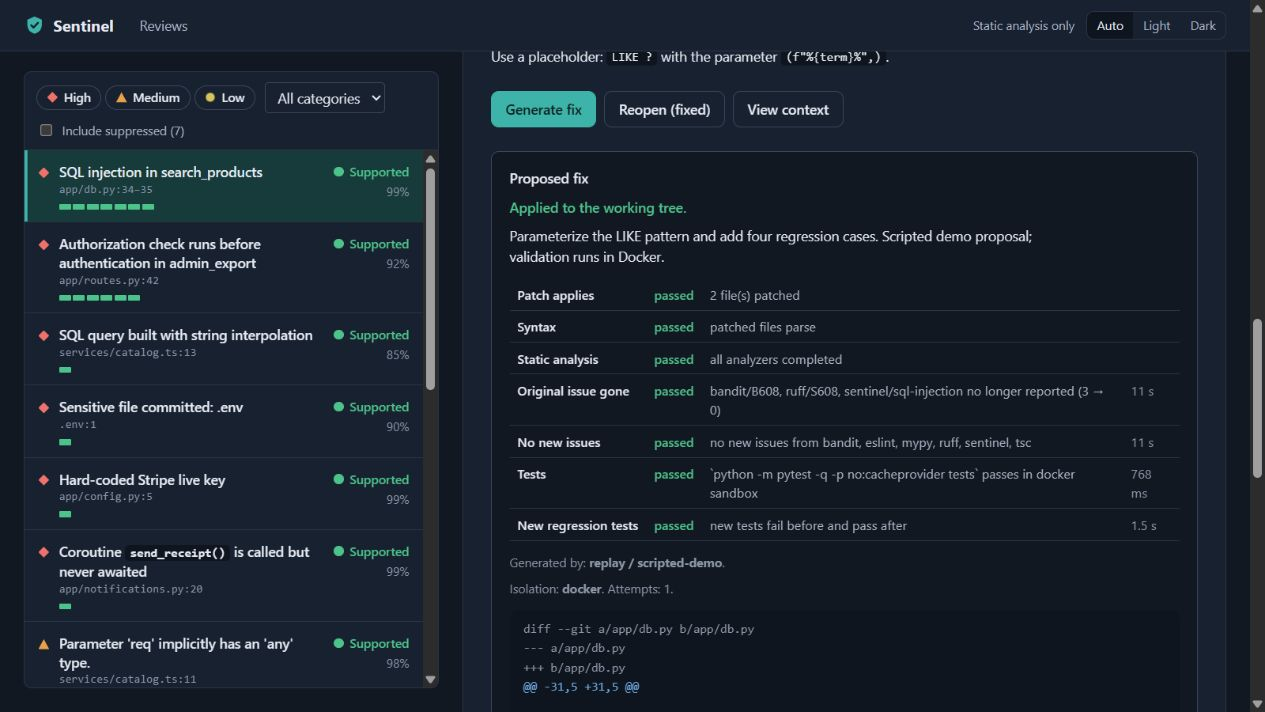
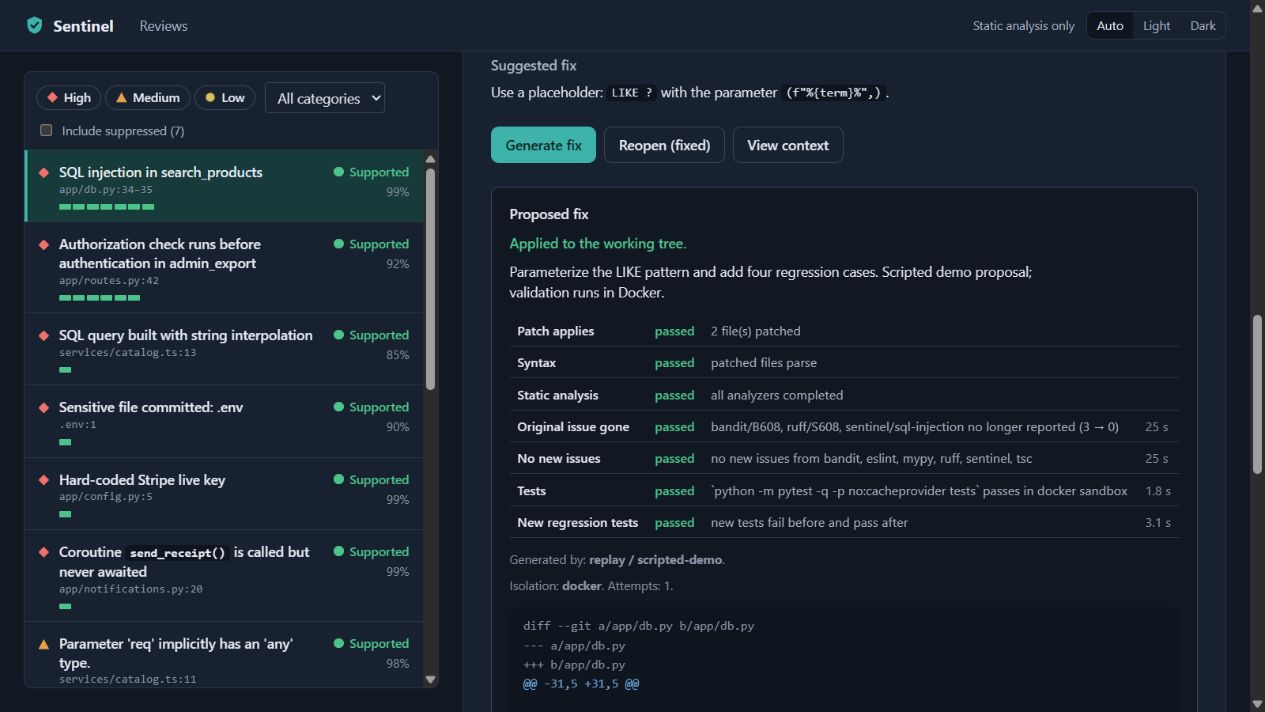
Record fresh-download demo acceptance and Docker restart guidance

diff --git a/docs/PUBLIC_DEMO_VERIFICATION.md b/docs/PUBLIC_DEMO_VERIFICATION.md
@@ -1,0 +1,102 @@
+# Public demo: fresh-download verification
+
+Confirmed **20 October 2026** on the public demo implementation
+[`a435e0c`](https://github.com/krish-121/Ai-code-reviewer/commit/a435e0cf0ca10886f9681f012bc28e09ffdeece0).
+This is a visitor rehearsal of [PUBLIC_DEMO.md](PUBLIC_DEMO.md), using the public
+GitHub download and its own new Python environment. The implementation needed no
+code repair during this follow-up. Documentation and screenshots record the result.
+
+## 1. Download and install
+
+We cloned the public repository into a new folder, created a new virtual environment
+with Python **3.14.4**, installed the locked Python/Node analysis dependencies and
+built the documented sandbox image. Imports were checked to come from this fresh
+checkout. The application checkout stayed clean in Git; `.demo/`, dependencies and
+database files were ignored. This catches dependencies that could otherwise be
+accidentally supplied by the development environment.
+
+## 2. Prepare the sample
+
+The public `seed_demo.py` command completed normally. Review **`R-d40693ae77`**
+contained bug, security, performance and test-gap findings, plus three rejected claims.
+Its prepared fix **`X-bd7079001f`** passed all seven normal checks in Docker. The
+source still exactly matched the buggy sample, and the proposed new test did not
+exist in the working tree: preparation and validation had not applied anything.
+
+The provider is **`replay / scripted-demo`**. Its replies are deliberately supplied
+by the demo; analysis, graph/context, verification, storage, queue, Docker validation
+and Apply use the normal implementations. This run made no live model requests and
+does not measure AI accuracy. Separate real-model evidence is in
+[BROWSER_LIVE_WORKFLOW.md](BROWSER_LIVE_WORKFLOW.md).
+
+## 3. Restart and inspect the rejected warning
+
+After the earlier interruption, the local demo server was restarted from that same
+download, environment and database. Its completed review and validated proposal were
+still available. In the browser, **Include suppressed** exposed **SQL injection in
+find_user**. The detail view explained that the query already uses placeholders and
+separate parameters, so the claim is rejected. This demonstrates why the viewer
+should inspect evidence rather than trust every suggested warning.
+
+![The deliberately wrong SQL warning is rejected](screenshots/public-demo-rejected.jpg)
+
+Docker Desktop had stopped during the interruption. We started the existing official
+installation and checked that its engine and the trusted `sentinel-sandbox:latest`
+image were available before generating another proposal. Nothing needed reinstalling;
+no sample/generated tests were moved onto the host.
+
+## 4. Generate a new proposal through the browser
+
+On the supported **SQL injection in search_products** finding **`F-a79826c818`**,
+we clicked **Generate fix**. The normal queue/worker produced **`X-43d96eb088`**,
+distinct from the proposal prepared by the seed script. All seven checks passed:
+
+1. Patch applies to the permitted files.
+2. Patched Python syntax parses.
+3. Required static analyzers finish in Docker.
+4. The original SQL diagnostics disappear, **3 → 0**.
+5. No new blocking diagnostics appear.
+6. The project tests pass in Docker.
+7. The new regression cases fail on the buggy code and pass on the patched code.
+
+## 5. Apply and test the actual files
+
+We clicked **Apply to working tree** in the browser. Only **`app/db.py`** and
+**`tests/test_db_regression.py`** were written in the disposable sample. The fix became
+applied, the finding became fixed, and that state survived browser reload. The API
+no longer offered the applied attempt for another Apply.
+
+A separate Docker run tested the actual written files: **six tests passed**. They
+include the two existing tests and four new cases for ordinary input, missing input,
+SQL-injection input and an apostrophe-containing name. A request to review the
+containing Sentinel application directory was refused with **403**: the demo server
+was authorized only for its sample root.
+
+![The fresh-download proposal is applied after seven passed checks](screenshots/public-demo-applied.jpg)
+
+Apply updates the working tree. The saved review continues to show the original
+reviewed code and risk, and the sample's committed feature branch still contains the
+planted bug. Use fresh paths for another clean run; the scripts preserve existing work.
+
+## 6. GitHub checks
+
+All three jobs for the implementation revision passed in
+[run 39299740562](https://github.com/krish-121/Ai-code-reviewer/actions/runs/39299740562).
+The completed logs confirm **678 Python tests passed, one test skipped**,
+**27 frontend tests passed**, strict typing/format/coverage checks passed, and the
+full isolated Docker/Compose acceptance passed. PostgreSQL variants ran in GitHub;
+the earlier local result was **652 passed with 27 PostgreSQL variants skipped**.
+
+These are checks on the named code revision. Later documentation-only publications
+have their own runs. No check was disabled or weakened, and no private repository
+was made public. The demo requires no AI key, subscription or local model download.
+
+## What this closes
+
+The public sample can be downloaded, prepared, reopened and exercised through a new
+browser-generated proposal, real validation and explicit Apply. Start Docker before
+generation after a computer restart. The normal app's saved Gemini choice and keys
+are separate from this demo. Smee was not reconnected.
+
+Broader model quality, complete outage/accessibility/load checks and distributed
+live-provider acceptance remain separately listed in [RELEASE_READINESS.md](RELEASE_READINESS.md).

diff --git a/docs/RELEASE_READINESS.md b/docs/RELEASE_READINESS.md
@@ -31,28 +31,24 @@ of the distributed Compose OpenCode profile or a full accessibility/outage matri
 
 ## Verified GitHub checks
 
-All three jobs for code revision `d2cd45c` in
-[run 39286099864](https://github.com/krish-121/Ai-code-reviewer/actions/runs/39286099864)
-now report **success**. The completed logs confirm:
+Rechecked **20 October 2026**: implementation revision `a435e0c` passed all three jobs
+in [run 39299740562](https://github.com/krish-121/Ai-code-reviewer/actions/runs/39299740562).
+Completed logs confirm **678 Python tests passed, one skipped**, **27 frontend tests
+passed**, strict lint/typing/coverage and full isolated Docker/Compose acceptance.
+PostgreSQL variants ran in GitHub. The local suite separately passed **652 tests**
+with **27 PostgreSQL variants skipped**; these are different environments.
 
-| Job | Result |
-| --- | --- |
-| Python | Ruff, formatting, strict application/bridge typing and coverage gates passed; **673 tests passed, one optional test skipped**. PostgreSQL variants ran. |
-| Frontend | **21 tests passed**, types/formatting and production build passed. |
-| Docker/Compose | Full isolated server acceptance passed: database/startup, analysis, queued multi-file fix, Docker validation, explicit Apply and restart persistence. |
+The [fresh public-download browser rehearsal](PUBLIC_DEMO_VERIFICATION.md) is also
+complete: new environment, seeded replay, restart, rejected claim, regenerated
+proposal through the queue, seven Docker checks, explicit Apply, reload persistence,
+six tests on the actual written sample, and refusal to review outside the sample.
+Docker Desktop needed restarting after interruption; no application-code repair or
+weakened gate was needed. This closes the public visitor acceptance for the named
+revision. Later documentation-only commits have separate runs.
 
-Initial API polls reported queued jobs with no runners or failure annotations. GitHub's
-[status service](https://www.githubstatus.com/) reported an Actions/Pages/Webhooks
-incident with processing/status delays. Job conclusions and completed logs became
-visible later; no failing code check was reported and no code repair or disabled gate
-was needed. The aggregate workflow status may lag its completed jobs during that
-incident. A subsequent documentation-only publication has its own CI run; the result
-above identifies the exact checked code revision rather than predicting future runs.
-Independent local checks for `d2cd45c` passed: **647 tests**, **27 PostgreSQL skips**,
-all **36 Docker tests executed**, **93.55% overall / 97% core coverage**, Ruff lint
-and formatting, application typing (155 source files), strict bridge typing and
-strict evaluation-helper typing. No frontend code changed in that revision. The
-PostgreSQL skips are not claimed as local passes. See [the recovery report](GITHUB_CONNECTION_RECOVERY.md).
+Earlier `d2cd45c`/`d762067` hosted confirmations remain historical checkpoints in
+the progress log. Keep all intended release revisions green. This demonstration
+does not close the production or live distributed-provider work below.
 
 ## What already works
 

diff --git a/docs/WALKTHROUGH.md b/docs/WALKTHROUGH.md
@@ -909,3 +909,26 @@ settings are unaffected. See decision 35 in [DESIGN_DECISIONS.md](DESIGN_DECISIO
 The scripted demonstration establishes reproducibility of this workflow. The separate
 [live acceptance report](BROWSER_LIVE_WORKFLOW.md) establishes the named real-model
 runs. Neither is a general model-accuracy or always-on deployment guarantee.
+
+
+## Fresh-download browser confirmation
+
+On 20 October 2026 we completed [the public visitor rehearsal](PUBLIC_DEMO_VERIFICATION.md)
+on the actual GitHub download and its new Python environment. The seeded review and
+validated proposal survived restarting the local demo server. The browser's suppressed
+finding view explained why the parameterized `find_user` query was safe. Regenerating
+the supported `search_products` fix then created a new queue job and proposal, distinct
+from the seed script's proposal. Seven normal checks passed before explicit Apply.
+Reload retained the applied/fixed state, and six tests passed on the written sample
+in Docker. A request outside the sample root was refused.
+
+The setup issue was Docker Desktop being stopped after the interruption. Starting
+the installed engine restored validation; no code repair, weakened check or host
+execution of sample/generated tests was needed. After a computer restart, start
+Docker before Generate fix. A validated proposal is saved evidence, not evidence
+that a newly requested validation process has Docker available right now.
+
+The implementation revision's three GitHub jobs passed: 678 Python tests, one skip,
+27 frontend tests and isolated Compose acceptance. See the linked report for exact
+revision/run and source-versus-patched-tree evidence. Scripted replies stay labelled
+`replay / scripted-demo`; actual model-quality claims belong to separate live tests.

diff --git a/PROGRESS.md b/PROGRESS.md
@@ -3,6 +3,24 @@
 Living log of what is built, what was decided, and what still needs a human eye.
 Spec: [`docs/SPEC.md`](docs/SPEC.md) (originally `project (1).md`) (sections referenced as §N). Last updated: 2026-10-19.
 
+## Fresh public download accepted — 20 October 2026
+
+- Rechecked implementation `a435e0c`: all three GitHub jobs passed in
+  [39299740562](https://github.com/krish-121/Ai-code-reviewer/actions/runs/39299740562).
+  Logs confirm 678 Python tests passed, one skipped; 27 frontend tests and full
+  Docker/Compose acceptance passed. No code failure or weakened gate.
+- The actual public clone/new Python environment prepared a completed replay review
+  and seven-check validated proposal while preserving source before Apply. Restarting
+  the demo retained them. The browser exposed the rejected safe-SQL warning, generated
+  a distinct fix via the worker, validated and applied it; six final-tree tests passed
+  in Docker. Reload kept applied/fixed state; outside-sample review was refused.
+- Docker Desktop had stopped after interruption. Restarted the existing engine;
+  no new application-code defect was found. Added the restart instruction and exact
+  fresh-download evidence to the walkthrough. Saved provider/key setup stays separate.
+- See [PUBLIC_DEMO_VERIFICATION.md](docs/PUBLIC_DEMO_VERIFICATION.md). The replies are
+  explicitly scripted; this closes public-demo acceptance, not general model accuracy
+  or the separate production/recovery/accessibility/load acceptance work.
+
 ## Public runnable demo — 19 October 2026
 
 The [public demo guide](docs/PUBLIC_DEMO.md) now gives a single-checkout quickstart,

diff --git a/docs/PUBLIC_DEMO.md b/docs/PUBLIC_DEMO.md
@@ -172,6 +172,8 @@ Git's staging area. Re-reviewing the same committed range still reviews that old
 
 ## 8. Stop, reopen or start a fresh sample
 
+After a computer restart, start Docker Desktop and check `docker info` before generating another fix. The database preserves reviews and proposals; the Docker engine must also be running for new validation.
+
 Press **Ctrl+C** in the demo server terminal to stop it. Run `serve_demo.py` again to
 reopen saved results. This does not stop another Sentinel server or the owner's
 OpenCode bridge. Rerunning `seed_demo.py` on existing paths deliberately fails.
@@ -221,3 +223,5 @@ checks and always-on hosting remain separate operational work.
 ## Verification checkpoint
 
 The 19 October 2026 rehearsal completed all seven normal checks, explicit browser Apply and six tests on the actual applied sample in Docker. Four demo regressions pass, including settings isolation and existing/unrelated-data protection. See [PROGRESS.md](../PROGRESS.md) for the full local suite and [GitHub Actions](https://github.com/krish-121/Ai-code-reviewer/actions) for hosted checks on each published revision. These results describe the scripted sample workflow, not model accuracy.
+
+The [fresh-download browser confirmation](PUBLIC_DEMO_VERIFICATION.md), completed 20 October 2026, verifies the actual public download, new environment, restart persistence, rejected-claim inspection, browser regeneration, all seven checks, Apply, six final-tree tests and sample-root restriction. The named implementation revision's three GitHub jobs passed.

diff --git a/docs/PROJECT_STATUS.md b/docs/PROJECT_STATUS.md
@@ -1,5 +1,23 @@
 # Current project status and remaining work
 
+## Fresh public download accepted — 20 October 2026
+
+- Rechecked implementation `a435e0c`: all three GitHub jobs passed in
+  [39299740562](https://github.com/krish-121/Ai-code-reviewer/actions/runs/39299740562).
+  Logs confirm 678 Python tests passed, one skipped; 27 frontend tests and full
+  Docker/Compose acceptance passed. No code failure or weakened gate.
+- The actual public clone/new Python environment prepared a completed replay review
+  and seven-check validated proposal while preserving source before Apply. Restarting
+  the demo retained them. The browser exposed the rejected safe-SQL warning, generated
+  a distinct fix via the worker, validated and applied it; six final-tree tests passed
+  in Docker. Reload kept applied/fixed state; outside-sample review was refused.
+- Docker Desktop had stopped after interruption. Restarted the existing engine;
+  no new application-code defect was found. Added the restart instruction and exact
+  fresh-download evidence to the walkthrough. Saved provider/key setup stays separate.
+- See [PUBLIC_DEMO_VERIFICATION.md](PUBLIC_DEMO_VERIFICATION.md). The replies are
+  explicitly scripted; this closes public-demo acceptance, not general model accuracy
+  or the separate production/recovery/accessibility/load acceptance work.
+
 ## Public runnable demo — 19 October 2026
 
 The [public demo guide](PUBLIC_DEMO.md) now gives a single-checkout quickstart,

diff --git a/README.md b/README.md
@@ -101,6 +101,8 @@ The [guide](docs/PUBLIC_DEMO.md) explains each command, how to inspect rejected
 findings, Apply, restart, and optionally use your own live AI provider. Start with
 `--review-only` if Docker is unavailable; that does not claim fix-validation success.
 
+The [fresh public-download confirmation](docs/PUBLIC_DEMO_VERIFICATION.md) records a new environment, browser regeneration, seven real Docker checks, explicit Apply and six final sample tests. All three implementation checks passed in GitHub.
+
 ### Actual browser acceptance
 
 The [19 October live browser walkthrough](docs/BROWSER_LIVE_WORKFLOW.md) records real
